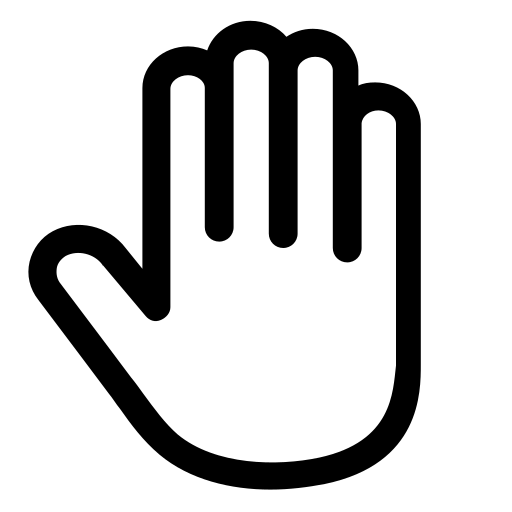
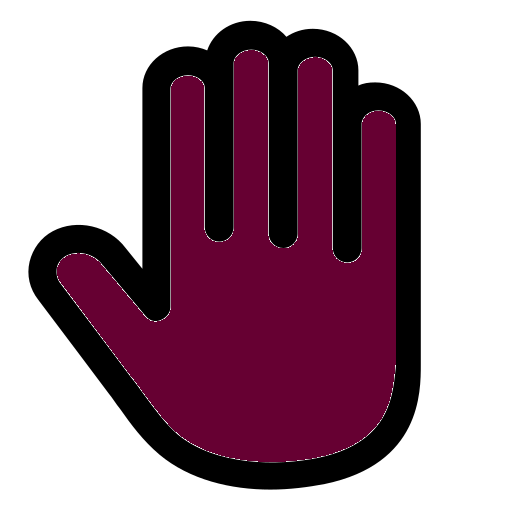
feat: colorize buttons and text

Changed region(s): [[0.0938, 0.0938, 0.7812, 0.9062]]

diff --git a/style.css b/style.css
@@ -4,4 +4,27 @@ body {
     align-items: center;
     justify-content: center;
     flex-direction: column;
+    background-color: #e5e6fa;
+    color: #660032;
+}
+
+.buttons button img {
+    width: 100px;
+    height: auto;
+}
+
+.buttons {
+    display: flex;
+    gap: 50px;
+}
+
+.buttons button {
+    background-color: white;
+    display: flex;
+    align-items: center;
+    justify-content: center;
+    border: 3px solid #660032;
+    border-radius: 10px;
+    padding: 10px;
+    cursor: pointer;
 }
